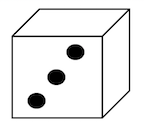
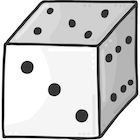
updated dice images and fixed code so dice selections get re-sent back to model after model selects them all to re-roll for new turn

diff --git a/Yahtzee.py b/Yahtzee.py
@@ -2,6 +2,7 @@ from tkinter import *
 import YahtzeeViews
 import YahtzeeModel
 
+
 class Yahtzee:
     def __init__(self, tk_master):
         self.view_to_model = {
@@ -25,6 +26,29 @@ class Yahtzee:
         self._master_tk.title("Play Yahtzee!")
         self.roll_dice()
         self._view.rolls_remaining = self._model.rolls_remaining
+
+    # Action Functions
+    def next_turn(self):
+        self._model.next_turn()
+        self.update_view() # careful with removing this the model selects all the dice for re-roll when turn ends.
+
+    def roll_dice(self):
+        self.update_dice_select()
+        self._model.roll_dice()
+        self.update_view()
+
+    def assign_roll(self):
+        box_name = self.view_to_model[self._view.selected_box]
+        self._model.assign_roll(box_name)
+        self.update_view()
+
+    # Updating view/model functions
+    def update_view(self):
+        self.update_score_card()
+        self.update_dice()
+        self._view.player_name = self._model.current_player
+        self._view.rolls_remaining = self._model.rolls_remaining
+        self.update_dice_select() # careful with removing this the model selects all the dice for re-roll when turn ends.
 
     def update_dice_select(self):
         for die_index in range(5):
@@ -51,25 +75,6 @@ class Yahtzee:
         for die_index, die_value in enumerate(dice_values):
             self._view.update_die(die_index, die_value)
 
-    def update_view(self):
-        self.update_score_card()
-        self.update_dice()
-        self._view.player_name = self._model.current_player
-        self._view.rolls_remaining = self._model.rolls_remaining
-
-    def next_turn(self):
-        self._model.next_turn()
-        self.update_view()
-
-    def roll_dice(self):
-        self.update_dice_select()
-        self._model.roll_dice()
-        self.update_view()
-
-    def assign_roll(self):
-        box_name = self.view_to_model[self._view.selected_box]
-        self._model.assign_roll(box_name)
-        self.update_view()
 
 
 yahtzee_tk = Tk()

diff --git a/YahtzeeViews.py b/YahtzeeViews.py
@@ -163,19 +163,27 @@ class DieView:
     """
     def __init__(self, master, initial_roll=6):
         self._last_roll = initial_roll
-        self._image = PhotoImage(file="Die" + str(self._last_roll) + ".png")
+        self._image = PhotoImage(file="Die" + str(self._last_roll) + "_selected.png")
         self._selected = IntVar(value=1)
         self.view = tk.Label(master, image=self._image)
         #self.view = tk.Checkbutton(master, image=self._image, variable=self._selected)
         self.view.bind("<Button-1>", self.toggle_selected)
 
+    def set_image(self, value, selected):
+        if selected == 1:
+            self._image = PhotoImage(file="Die" + str(value) + "_selected.png")
+
+        else:
+            self._image = PhotoImage(file="Die" + str(value) + ".png")
+        self.view.configure(image=self._image)
+
     def toggle_selected(self, event):
         if self._selected.get() == 1:
             self._selected.set(0)
-            print('unselected')
         else:
             self._selected.set(1)
-            print("selected")
+        self.set_image(self._last_roll, self._selected.get())
+
 
     @property
     def selected(self):
@@ -185,7 +193,7 @@ class DieView:
     @selected.setter
     def selected(self, is_selected):
         self._selected.set(is_selected)
-        print("die selected")
+        self.set_image(self.last_roll, self._selected.get())
 
     @property
     def last_roll(self):
@@ -196,8 +204,7 @@ class DieView:
     def last_roll(self, value):
         if 1 <= value <= 6:
             self._last_roll = value
-            self._image = PhotoImage(file="Die" + str(value) + ".png")
-            self.view.configure(image=self._image)
+            self.set_image(self._last_roll, self._selected.get())
         else:
             raise Exception('Value of die view must be between 1 and 6')
 

diff --git a/YahtzeeModel.py b/YahtzeeModel.py
@@ -412,6 +412,7 @@ class YahtzeeModel:
         if self._rolls_remaining > 0 and self._assigned_roll == False:
             for die_index, die in enumerate(self._dice):
                 if self._selected_dice[die_index]:
+                    print('rolled', die_index)
                     die.roll()
             self._rolls_remaining = self._rolls_remaining - 1
         return self.get_dice()
